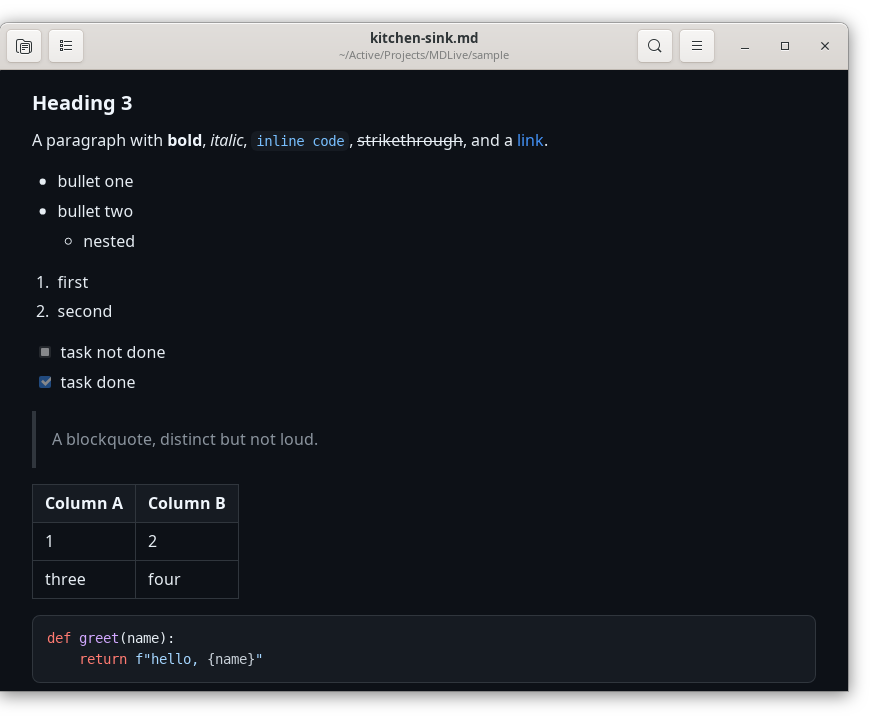
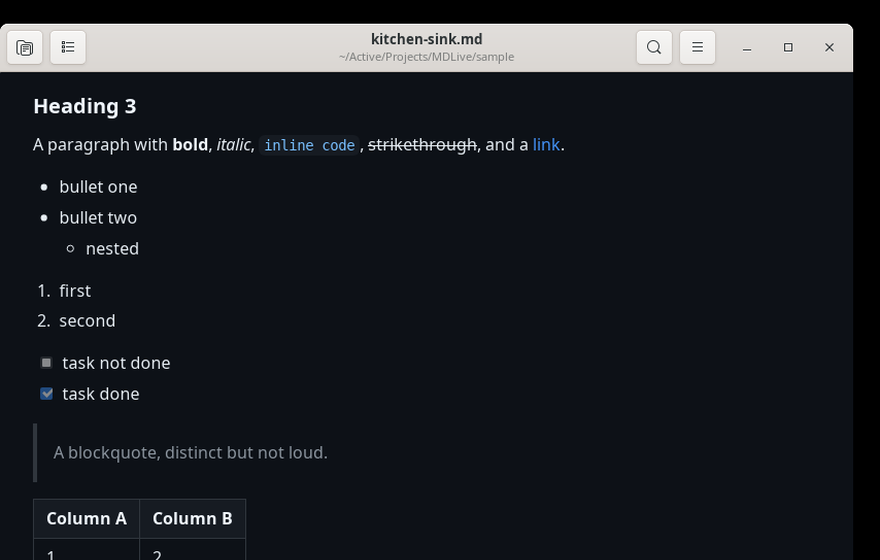
Fix transparent thumbnails, and make them a uniform grid
The thumbnails were captured straight from X11. GTK windows use an ARGB visual,
so the PNGs carried an alpha channel with a transparent window background. On a
light page they looked fine, but on a dark page the background showed through
and dark text sat on a dark background. Captures are now flattened to rgb24.

They were also three different sizes, which made the 2x2 grid ragged. Every
thumbnail is now scaled and cropped to 880x560.

Alongside that: the settings window gets its own header bar rather than relying
on the window manager for a title, and the math sample is filled out so it
demonstrates something. That sample also needed \\ for a matrix row break,
since Markdown consumes one backslash before KaTeX sees it.

Changed region(s): [[0.0, 0.0, 1.0, 1.0], [0.0309, 0.4857, 0.3707, 0.85], [0.0309, 0.2429, 0.6487, 0.4554]]

diff --git a/linux/mdlive.py b/linux/mdlive.py
@@ -1067,8 +1067,18 @@ class SettingsWindow(Gtk.Window):
     def __init__(self, app, parent):
         super().__init__(title="MDLive Settings", transient_for=parent)
         self.app = app
-        self.set_default_size(460, 460)
+        self.set_default_size(560, 520)
         self.set_border_width(16)
+        # Pick up the light/dark preference before this window is realized, so it
+        # matches the document windows instead of falling back to the system
+        # theme's default variant.
+        apply_chrome_theme()
+
+        # Its own header bar, so it matches the document windows rather than
+        # depending on whatever decoration the window manager supplies.
+        header = Gtk.HeaderBar(show_close_button=True)
+        header.set_title("Settings")
+        self.set_titlebar(header)
 
         grid = Gtk.Grid(row_spacing=10, column_spacing=14)
         self.add(grid)

diff --git a/sample/math.md b/sample/math.md
@@ -1,5 +1,26 @@
 # Math
 
-Inline $x^2 + y^2$ and block:
+LaTeX is rendered by KaTeX, bundled and offline. Turn it on in Settings.
 
-$$\int_0^1 x\,dx$$
+Inline math sits in the text, like $x^2 + y^2$ or $e^{i\pi} + 1 = 0$, and block
+math gets its own line:
+
+$$\int_0^1 x\,dx = \frac{1}{2}$$
+
+$$\sum_{n=1}^{\infty} \frac{1}{n^2} = \frac{\pi^2}{6}$$
+
+Matrices and fractions work too:
+
+$$A = \begin{bmatrix} a & b \\\\ c & d \end{bmatrix}
+\qquad
+\frac{\partial f}{\partial x} = \lim_{h \to 0} \frac{f(x+h) - f(x)}{h}$$
+
+It mixes with everything else, so a **bold** claim can carry a $\sigma$ in it,
+and code stays code:
+
+```python
+sigma = sum(1 / n**2 for n in range(1, 100000))
+```
+
+> Rendering happens after the Markdown pass, so math inside a quote still comes
+> out right: $\alpha \le \beta$.
